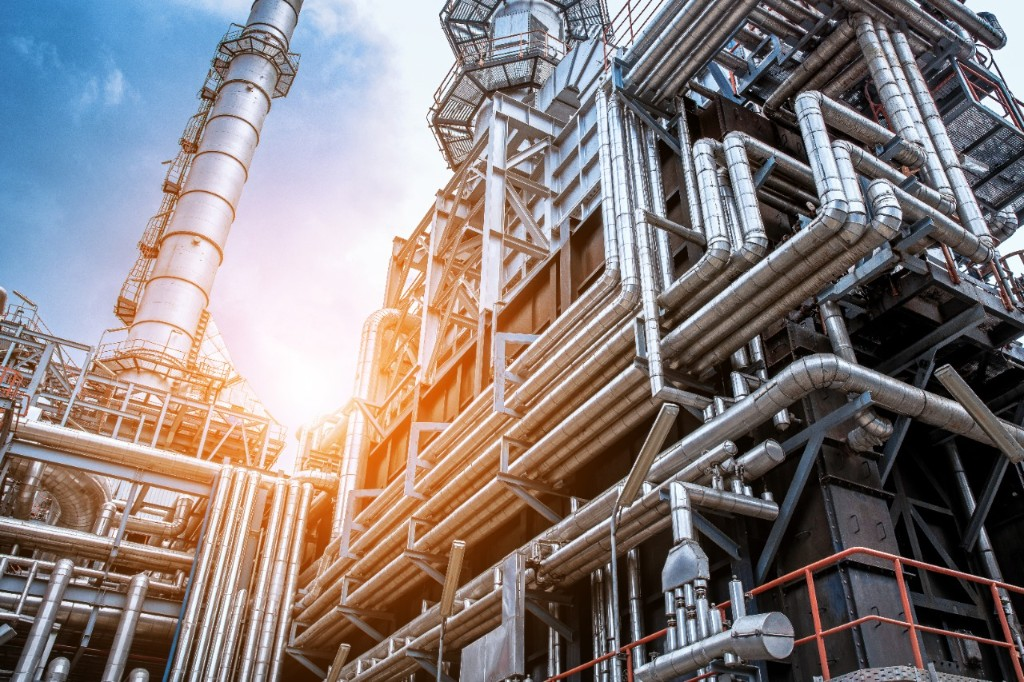
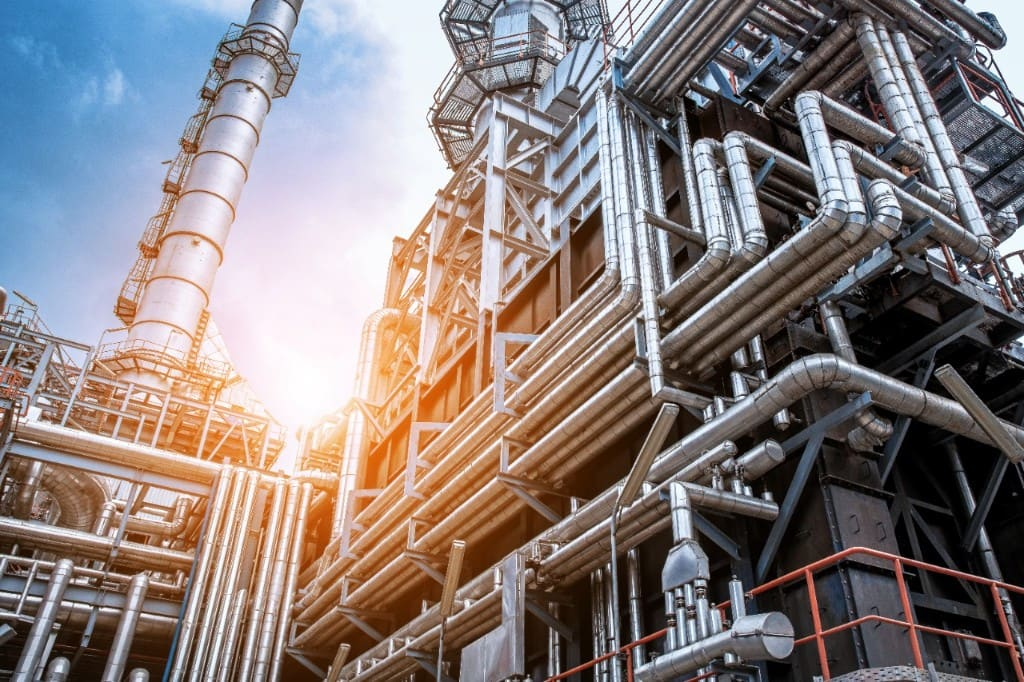
Melhora SEO e performance da home (robots, sitemap, meta e imagens).
Adiciona robots/sitemap/llms.txt, título e description corretos, H1, JSON-LD e comprime as fotos da home que travavam o LCP.

diff --git a/app/layout.tsx b/app/layout.tsx
@@ -27,12 +27,63 @@ const oswald = Oswald({
 });
 
 export const metadata: Metadata = {
+  metadataBase: new URL("https://www.recrutaindustria.com"),
   title: {
-    default: "Recruta Indústria",
+    default: "Recruta Indústria | Vagas e talentos do setor industrial",
     template: "%s | Recruta Indústria",
   },
-  description: "Plataforma de recrutamento para setor industrial",
+  description:
+    "Conecte empresas e profissionais da indústria. Cadastre seu perfil ou encontre talentos qualificados com segurança, foco em chão de fábrica e recrutamento industrial.",
   applicationName: "Recruta Indústria",
+  keywords: [
+    "recrutamento industrial",
+    "vagas indústria",
+    "profissional industrial",
+    "soldador",
+    "CNC",
+    "chão de fábrica",
+    "Recruta Indústria",
+  ],
+  authors: [{ name: "Recruta Indústria" }],
+  creator: "Recruta Indústria",
+  publisher: "Recruta Indústria",
+  alternates: {
+    canonical: "/",
+  },
+  openGraph: {
+    type: "website",
+    locale: "pt_BR",
+    url: "https://www.recrutaindustria.com/",
+    siteName: "Recruta Indústria",
+    title: "Recruta Indústria | Vagas e talentos do setor industrial",
+    description:
+      "Plataforma de recrutamento industrial: empresas encontram profissionais e profissionais encontram oportunidades na indústria.",
+    images: [
+      {
+        url: "/logo-recruta.png",
+        width: 512,
+        height: 512,
+        alt: "Recruta Indústria",
+      },
+    ],
+  },
+  twitter: {
+    card: "summary",
+    title: "Recruta Indústria | Vagas e talentos do setor industrial",
+    description:
+      "Recrutamento industrial para empresas e profissionais. Cadastre-se e conecte-se com o setor.",
+    images: ["/logo-recruta.png"],
+  },
+  robots: {
+    index: true,
+    follow: true,
+    googleBot: {
+      index: true,
+      follow: true,
+      "max-image-preview": "large",
+      "max-snippet": -1,
+    },
+  },
   manifest: "/manifest.json",
   icons: {
     icon: [
@@ -74,9 +125,37 @@ export default function RootLayout({
 }: Readonly<{
   children: React.ReactNode;
 }>) {
+  const jsonLd = {
+    "@context": "https://schema.org",
+    "@graph": [
+      {
+        "@type": "Organization",
+        "@id": "https://www.recrutaindustria.com/#organization",
+        name: "Recruta Indústria",
+        url: "https://www.recrutaindustria.com/",
+        logo: "https://www.recrutaindustria.com/logo-recruta.png",
+        email: "contato@recrutaindustria.com",
+        description:
+          "Plataforma de recrutamento industrial para empresas e profissionais no Brasil.",
+      },
+      {
+        "@type": "WebSite",
+        "@id": "https://www.recrutaindustria.com/#website",
+        url: "https://www.recrutaindustria.com/",
+        name: "Recruta Indústria",
+        publisher: { "@id": "https://www.recrutaindustria.com/#organization" },
+        inLanguage: "pt-BR",
+      },
+    ],
+  };
+
   return (
     <html lang="pt-BR">
       <body className={`${geistSans.variable} ${geistMono.variable} ${oswald.variable}`}>
+        <script
+          type="application/ld+json"
+          dangerouslySetInnerHTML={{ __html: JSON.stringify(jsonLd) }}
+        />
         <Script
           src={`https://www.googletagmanager.com/gtag/js?id=${GOOGLE_ADS_ID}`}
           strategy="afterInteractive"

diff --git a/app/page.tsx b/app/page.tsx
@@ -1,9 +1,6 @@
-"use client";
-
-/* Home — polimento visual autorizado pelo usuário (07/09/2026). Ver .cursor/rules/home-page-lock.mdc */
-
 import React from "react";
 import Link from "next/link";
+import Image from "next/image";
 import { Dancing_Script } from "next/font/google";
 import LogoRecruta from "@/app/components/LogoRecruta";
 import { FONT_STACK } from "@/lib/theme";
@@ -24,7 +21,7 @@ export default function Home() {
       <div className={styles.homeShell}>
         <header className={styles.hero}>
           <div className={styles.logoHero}>
-            <LogoRecruta size="hero" depth />
+            <LogoRecruta size="hero" depth as="h1" />
           </div>
 
           <div className={styles.heroLineRow}>
@@ -50,6 +47,7 @@ export default function Home() {
               img: "/profissional.jpg",
               text: "Cadastre seu perfil e encontre oportunidades na indústria.",
               cta: "Acessar",
+              alt: "Profissional da indústria com capacete de proteção",
             },
             {
               href: "/login?tipo=empresa",
@@ -57,20 +55,22 @@ export default function Home() {
               img: "/empresa.jpg",
               text: "Encontre profissionais qualificados para sua operação.",
               cta: "Acessar",
+              alt: "Ambiente industrial e equipe de produção",
             },
           ].map((c) => (
             <Link key={c.href} href={c.href} className={styles.actionCard}>
               <div className={styles.cardImageWrap}>
-                {/* eslint-disable-next-line @next/next/no-img-element */}
-                <img
+                <Image
                   src={c.img}
-                  alt=""
+                  alt={c.alt}
+                  fill
+                  sizes="(max-width: 900px) 100vw, 420px"
                   className={
                     c.href.includes("empresa")
                       ? `${styles.cardImage} ${styles.cardImageEmpresa}`
                       : styles.cardImage
                   }
-                  decoding="async"
+                  priority
                 />
               </div>
               <div className={styles.cardContent}>

diff --git a/app/sitemap.ts b/app/sitemap.ts
@@ -1,0 +1,26 @@
+import type { MetadataRoute } from "next";
+
+const SITE = "https://www.recrutaindustria.com";
+
+export default function sitemap(): MetadataRoute.Sitemap {
+  const now = new Date();
+  const pages: Array<{ path: string; priority: number; changeFrequency: MetadataRoute.Sitemap[0]["changeFrequency"] }> = [
+    { path: "/", priority: 1, changeFrequency: "weekly" },
+    { path: "/login", priority: 0.9, changeFrequency: "monthly" },
+    { path: "/login?tipo=profissional", priority: 0.8, changeFrequency: "monthly" },
+    { path: "/login?tipo=empresa", priority: 0.8, changeFrequency: "monthly" },
+    { path: "/professional/register", priority: 0.8, changeFrequency: "monthly" },
+    { path: "/company/register", priority: 0.8, changeFrequency: "monthly" },
+    { path: "/baixar-app", priority: 0.6, changeFrequency: "monthly" },
+    { path: "/termos/autorizacao-dados", priority: 0.3, changeFrequency: "yearly" },
+    { path: "/termos/declaracao-veracidade", priority: 0.3, changeFrequency: "yearly" },
+    { path: "/termos/lgpd", priority: 0.3, changeFrequency: "yearly" },
+  ];
+
+  return pages.map((p) => ({
+    url: `${SITE}${p.path}`,
+    lastModified: now,
+    changeFrequency: p.changeFrequency,
+    priority: p.priority,
+  }));
+}

diff --git a/app/robots.ts b/app/robots.ts
@@ -1,0 +1,26 @@
+import type { MetadataRoute } from "next";
+
+const SITE = "https://www.recrutaindustria.com";
+
+export default function robots(): MetadataRoute.Robots {
+  return {
+    rules: [
+      {
+        userAgent: "*",
+        allow: "/",
+        disallow: [
+          "/api/",
+          "/admin",
+          "/admin/",
+          "/admin-verify-2fa",
+          "/professional/dashboard",
+          "/professional/dashboard/",
+          "/company/dashboard-empresa",
+          "/company/dashboard-empresa/",
+        ],
+      },
+    ],
+    sitemap: `${SITE}/sitemap.xml`,
+    host: SITE,
+  };
+}

diff --git a/next.config.js b/next.config.js
@@ -111,7 +111,7 @@ const nextConfig = {
         headers: [
           {
             key: "Cache-Control",
-            value: "public, max-age=86400, stale-while-revalidate=604800",
+            value: "public, max-age=2592000, stale-while-revalidate=604800",
           },
         ],
       },

diff --git a/app/home.module.css b/app/home.module.css
@@ -164,6 +164,7 @@
 }
 
 .cardImageWrap {
+  position: relative;
   flex: 1 1 auto;
   min-height: 120px;
   max-height: 170px;
